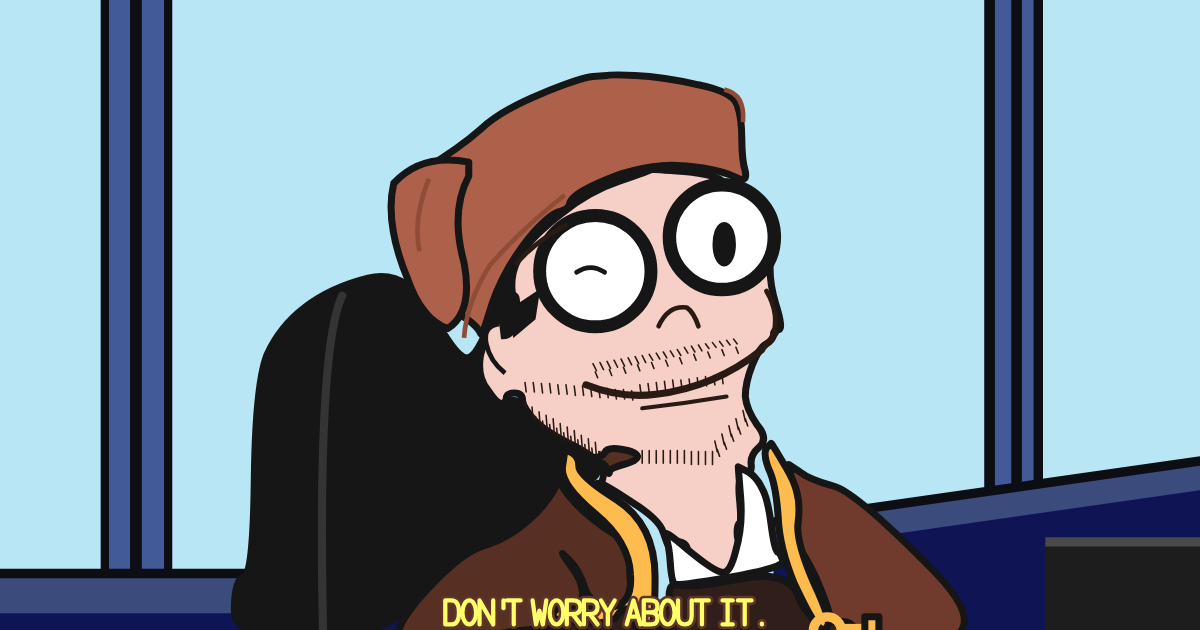
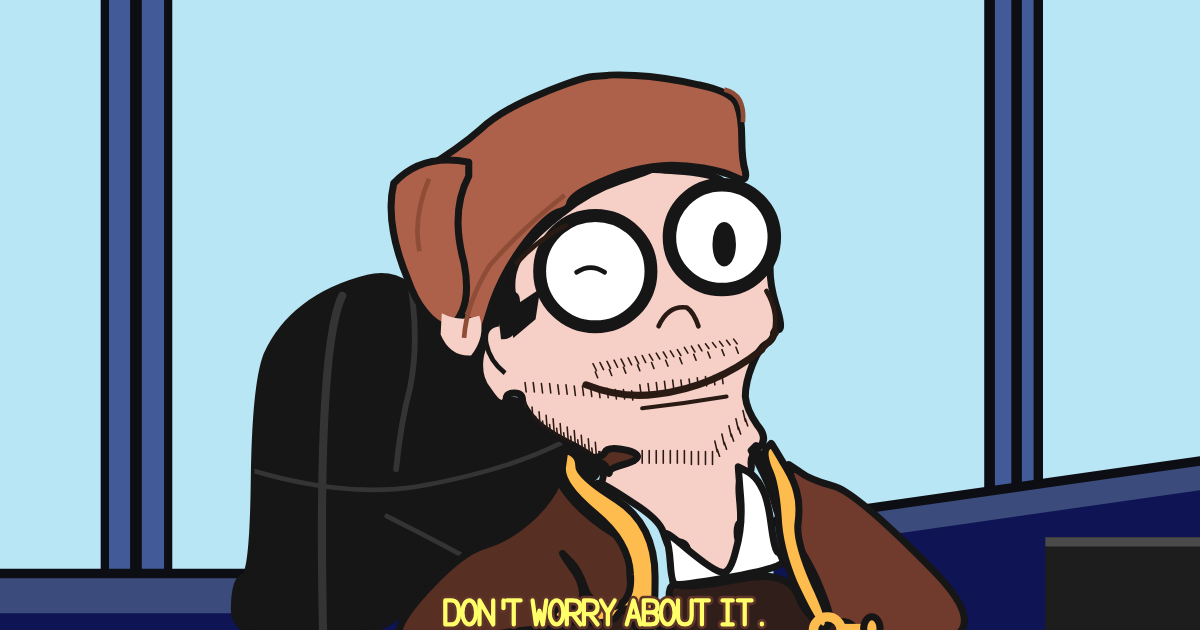
tipsy: fidelity pass on tipsy/ghost — chair upholstery, torso ledge fix, leak patches

diff --git a/tipsy/tipsy/index.html b/tipsy/tipsy/index.html
@@ -4,18 +4,18 @@
 <meta charset="utf-8">
 <meta name="viewport" content="width=device-width,initial-scale=1">
 <title>Tipsy Turtles_Bonus Snippet_1 — on chain</title>
-<meta name="description" content="Tipsy Turtles_Bonus Snippet_1 redrawn as vector art and stored entirely inside its minting transaction — 13,489 bytes, no IPFS, no gateway.">
+<meta name="description" content="Tipsy Turtles_Bonus Snippet_1 redrawn as vector art and stored entirely inside its minting transaction — 14,172 bytes, no IPFS, no gateway.">
 <link rel="canonical" href="https://beacnpool.github.io/ABCDE/tipsy/tipsy/">
 <meta property="og:type" content="website">
 <meta property="og:url" content="https://beacnpool.github.io/ABCDE/tipsy/tipsy/">
 <meta property="og:title" content="Tipsy Turtles_Bonus Snippet_1 — on chain">
-<meta property="og:description" content="Tipsy Turtles_Bonus Snippet_1 redrawn as vector art and stored entirely inside its minting transaction — 13,489 bytes, no IPFS, no gateway.">
+<meta property="og:description" content="Tipsy Turtles_Bonus Snippet_1 redrawn as vector art and stored entirely inside its minting transaction — 14,172 bytes, no IPFS, no gateway.">
 <meta property="og:image" content="https://beacnpool.github.io/ABCDE/tipsy/tipsy/og.png">
 <meta property="og:image:width" content="1200">
 <meta property="og:image:height" content="630">
 <meta name="twitter:card" content="summary_large_image">
 <meta name="twitter:title" content="Tipsy Turtles_Bonus Snippet_1 — on chain">
-<meta name="twitter:description" content="Tipsy Turtles_Bonus Snippet_1 redrawn as vector art and stored entirely inside its minting transaction — 13,489 bytes, no IPFS, no gateway.">
+<meta name="twitter:description" content="Tipsy Turtles_Bonus Snippet_1 redrawn as vector art and stored entirely inside its minting transaction — 14,172 bytes, no IPFS, no gateway.">
 <meta name="twitter:image" content="https://beacnpool.github.io/ABCDE/tipsy/tipsy/og.png">
 <style>
 *{box-sizing:border-box}
@@ -100,7 +100,7 @@ footer{margin-top:44px;padding-top:16px;border-top:1px solid var(--line);
      <code>ipfs://QmaHHqybfwzf…</code> — and a pointer is only as permanent as
      whoever keeps paying to pin it.</p>
   <p class="sub">On the right is the same frame redrawn as vector art and written
-     <b>into the minting transaction itself</b>: 9,215 bytes of SVG, no gateway,
+     <b>into the minting transaction itself</b>: 9,725 bytes of SVG, no gateway,
      no pin, no bill.</p>
 
   <div class="vs">
@@ -123,9 +123,9 @@ footer{margin-top:44px;padding-top:16px;border-top:1px solid var(--line);
         <span class="tag chain">stored on Cardano</span><br>
         <b>Ours.</b> Decoded from the same base64 string that rides in the transaction
         below. Nothing was fetched to draw it.
-        <div class="bar"><i style="width:82.3%"></i></div>
-        <span style="color:var(--dim)">13,489 of 16,384 bytes
-        &middot; 82% of one transaction</span>
+        <div class="bar"><i style="width:86.5%"></i></div>
+        <span style="color:var(--dim)">14,172 of 16,384 bytes
+        &middot; 86% of one transaction</span>
       </div>
     </div>
   </div>
@@ -157,8 +157,8 @@ footer{margin-top:44px;padding-top:16px;border-top:1px solid var(--line);
     <tr><td>closes</td><td>24 Aug 2026 13:04 UTC</td></tr>
     <tr><td>asset name</td><td><code>TIPSY&lt;8 hex&gt;</code> — derived from the
         UTxO you spend, so every mint is a distinct token</td></tr>
-    <tr><td>image</td><td><code>9,215 bytes</code> of SVG, base64 in CIP-25 metadata</td></tr>
-    <tr><td>you pay</td><td><b>~0.75 ADA</b> network fee, plus
+    <tr><td>image</td><td><code>9,725 bytes</code> of SVG, base64 in CIP-25 metadata</td></tr>
+    <tr><td>you pay</td><td><b>~0.78 ADA</b> network fee, plus
         <b>~1.18 ADA</b> min-UTxO that stays in your wallet</td></tr>
     <tr><td>creator takes</td><td><b>nothing</b> — there is no payment address in this
         transaction</td></tr>
@@ -190,7 +190,7 @@ footer{margin-top:44px;padding-top:16px;border-top:1px solid var(--line);
     transaction · <a href="../">all three frames</a></footer>
 
 </div>
-<script id="art-src" type="image/svg+xml"><svg xmlns="http://www.w3.org/2000/svg" viewBox="0 0 1024 576"><defs><path id="fp" d="M556 164Q557 164 584 166Q612 169 616 174Q619 178 631 182Q643 186 652 200Q660 213 658 235Q655 257 662 279Q669 301 664 301Q660 301 660 306Q659 310 654 313Q648 316 642 331Q636 346 636 358Q637 369 646 382Q656 394 648 401Q640 408 641 416Q642 423 636 424Q629 424 631 445Q633 466 631 466Q629 467 629 474Q629 481 632 484Q634 487 632 498Q631 510 637 510Q643 511 623 514Q603 518 602 512Q602 507 597 504Q592 501 584 501Q577 501 576 511Q574 521 574 512Q574 503 580 502Q587 500 587 492Q587 483 579 482Q571 482 570 484Q570 486 566 474Q563 463 539 448Q515 432 512 432Q508 432 512 432Q515 431 515 422Q515 413 490 400Q464 387 456 378Q447 368 446 362Q446 355 439 355Q432 355 432 360Q431 364 428 364Q424 364 416 352Q407 341 410 323Q414 305 426 306Q439 308 440 290Q442 272 439 272Q436 271 437 258Q438 246 447 233Q456 220 479 202Q502 183 529 174Q556 165 556 164Z"/><clipPath id="fc"><use href="#fp"/></clipPath><path id="A" d="M0 28 8 0 16 28M3 19h10"/><path id="B" d="M0 28V0h8q8 0 8 7t-8 7H0m8 0q8 0 8 7t-8 7H0"/><path id="D" d="M0 0h7q9 0 9 14t-9 14H0z"/><path id="I" d="M2 0h12M8 0v28M2 28h12"/><path id="N" d="M0 28V0l16 28V0"/><path id="O" d="M8 0a8 14 0 0 0 0 28a8 14 0 0 0 0-28z"/><path id="R" d="M0 28V0h7q9 0 9 8t-9 8H0m7 0 9 12"/><path id="T" d="M0 0h16M8 0v28"/><path id="U" d="M0 0v18q0 10 8 10t8-10V0"/><path id="W" d="M0 0 4 28 8 12 12 28 16 0"/><path id="Y" d="M0 0 8 14 16 0M8 14v14"/><path id="k" d="M8 0v9"/><path id="p" d="M8 27v1"/><g id="cp" transform="translate(380 532)scale(0.73)"><use href="#D" x="0"/><use href="#O" x="20"/><use href="#N" x="40"/><use href="#k" x="60"/><use href="#T" x="72"/><use href="#W" x="102"/><use href="#O" x="122"/><use href="#R" x="142"/><use href="#R" x="162"/><use href="#Y" x="182"/><use href="#A" x="212"/><use href="#B" x="232"/><use href="#O" x="252"/><use href="#U" x="272"/><use href="#T" x="292"/><use href="#I" x="322"/><use href="#T" x="342"/><use href="#p" x="362"/></g></defs><path d="M0 0h1024v576H0z" fill="#b8e6f4"/><path d="M86 0h60v520H86z" fill="#425a98"/><path d="M86 0h7v520h-7zm25 0h10v520h-10zm29 0h7v520h-7z" fill="#0c0e14"/><path d="M840 0h50v448h-50z" fill="#425a98"/><path d="M840 0h9v448h-9zm23 0h9v448h-9zm19 0h8v448h-8z" fill="#0c0e14"/><path d="M0 508h446v68H0z" fill="#3b4b7c"/><path d="M0 543h446v33H0z" fill="#0e1454"/><path d="M0 505h446v8H0z" fill="#0c0e14"/><path d="M660 466 1024 414v162H660z" fill="#0e1454"/><path d="M660 466 1024 414v24L660 490z" fill="#3b4b7c"/><path d="M660 461 1024 409v8L660 469z" fill="#0c0e14"/><path d="M892 478h132v98H892z" fill="#1d1d1d"/><path d="M892 478h132v8H892z" fill="#4a4a4a"/><g stroke="#161616" stroke-width="6" stroke-linejoin="round"><path d="M454 244Q455 244 463 261Q471 278 491 290Q511 302 478 291Q446 280 445 300Q444 319 430 316Q416 313 415 334Q414 356 417 360Q420 365 432 362Q444 358 454 374Q463 389 487 401Q511 413 510 420Q510 427 500 430Q489 432 489 440Q489 448 479 446Q469 444 459 453Q449 462 449 470Q449 478 465 485Q481 492 489 502Q497 513 504 533Q511 553 506 560Q500 567 496 561Q491 555 436 554Q381 554 382 547Q384 540 441 539Q498 538 492 518Q487 499 465 488Q443 478 418 484Q393 489 359 528Q325 567 262 567Q200 567 200 540Q200 514 208 512Q216 511 217 429Q218 347 228 322Q239 298 260 282Q282 265 314 257Q346 249 368 286Q389 324 398 325Q407 326 420 289Q432 252 434 249Q436 246 436 253Q437 260 445 260Q453 260 454 252Q454 245 454 244Z" fill="#161616"/><path d="M292 272q-22 46-16 304" fill="none" stroke="#343434" stroke-width="7" stroke-linecap="round"/><use href="#fp" fill="#f6cfc6"/><path d="M518 84Q519 83 542 84Q566 85 596 92Q625 98 629 109Q633 120 633 138Q633 156 636 166Q638 176 628 171Q618 166 600 163Q581 160 565 161Q549 162 530 168Q511 175 498 182Q486 189 486 194Q485 198 478 200Q471 201 458 215Q445 229 434 248Q423 267 417 288Q411 308 410 304Q408 299 400 293Q392 287 384 288Q376 289 376 294Q375 299 364 284Q352 268 350 250Q347 231 341 219Q335 207 334 194Q333 181 362 164Q392 146 410 130Q427 114 461 100Q495 86 506 85Q518 84 518 84Z" fill="#ad614a"/><path d="M400 158Q360 150 336 176Q328 210 348 258Q360 292 382 300Q404 286 396 244Q384 200 400 170Z" fill="#ad614a"/><path d="M482 186q-38 30-64 60-20 32-22 62" fill="none" stroke="#8f4d38" stroke-width="4"/><path d="M366 172q-14 34-8 62" fill="none" stroke="#8f4d38" stroke-width="4"/><path d="M618 96q18 4 16 28" fill="none" stroke="#8f4d38" stroke-width="4"/><circle cx="508" cy="251" r="45" fill="#fff"/><circle cx="616" cy="222" r="42" fill="#fff"/><ellipse cx="618" cy="228" rx="7" ry="16" fill="#161616"/><path d="M492 252q12-8 24 0" fill="none" stroke="#161616" stroke-width="4" stroke-linecap="round"/><path d="M461 266 434 284l4 24 19-16z" fill="#161616" stroke="none"/><path d="M426 296q-14 2-11 17t16 25" fill="#f6cfc6" stroke-width="4"/><g fill="none" stroke="#161616"><circle cx="508" cy="251" r="49" stroke-width="8"/><circle cx="616" cy="222" r="46" stroke-width="9"/></g><g fill="none" stroke="#2a1a14" stroke-linecap="round"><path d="M562 298q8-18 24-16 6 4 10 16" stroke-width="4"/><path d="M500 348q30 12 60 8 50-6 90-38" stroke-width="6"/><path d="M648 320q8-8 14-16" stroke-width="5"/><path d="M548 368q36-4 72-10" stroke-width="3.5"/><path d="M654 268q12 20 5 40" stroke-width="4"/><path d="M441 244q18-20 42-32" stroke-width="4"/></g><g clip-path="url(#fc)" fill="none" stroke="#2a1a14" stroke-width="1.35" stroke-linecap="round"><path d="M506 330l3 6M508 337l2 5M512 329l3 6M518 328l3 6M520 335l2 5M524 327l3 6M530 326l3 6M532 333l2 5M536 325l3 6M542 324l3 6M544 331l2 5M548 323l3 6M554 322l3 5M556 329l2 5M560 321l3 5M566 320l3 5M568 327l2 5M572 319l3 5M578 318l3 5M580 325l2 5M584 316l3 5M590 315l3 5M592 322l2 5M596 314l3 5M602 313l3 4M604 320l2 5M608 312l3 4M614 311l3 4M616 318l2 5M620 310l3 4M626 309l3 4M628 316l2 5M436 358l1 13M439 366l1 9M442 361l1 13M445 369l1 9M448 364l1 13M451 372l1 9M454 367l1 13M457 375l1 9M460 371l1 13M463 379l1 9M466 374l1 13M469 382l1 9M472 377l1 13M475 385l1 9M478 381l1 13M481 389l1 9M484 384l1 13M487 392l1 9M490 387l1 13M493 395l1 9M496 391l1 13M499 399l1 9M502 394l1 13M505 402l1 9M508 397l1 13M511 405l1 9M448 346l1 8M455 346l1 8M462 347l1 8M469 347l1 8M476 348l1 8M483 348l1 8M490 349l1 8M497 349l1 8M504 350l1 8M511 351l1 8M518 351l1 8M525 352l1 8M532 352l1 8M539 353l1 8M546 348l1 8M553 347l1 8M560 346l1 8M567 345l1 8M574 344l1 8M581 344l1 8M588 343l1 8M595 342l1 8M602 341l1 8M609 340l1 8M616 339l1 8M512 405l0 11M518 405l0 11M524 405l0 11M530 405l0 11M536 404l0 11M542 404l0 11M548 404l0 11M554 404l0 11M560 404l0 11M566 404l0 11M572 404l0 11M578 404l0 11M584 404l0 11M590 405l0 11M596 405l0 11M602 405l0 11M608 405l0 11M610 396l2 9M612 403l2 6M616 390l2 9M618 397l2 6M622 383l2 9M624 390l2 6M628 377l2 9M630 384l2 6M634 370l2 9M636 377l2 6M640 363l2 9M642 370l2 6M646 357l2 9M648 364l2 6M652 350l2 9M654 357l2 6"/></g><path d="M673 416Q673 416 682 422Q691 429 710 434Q729 438 794 504Q859 569 778 570Q697 570 694 560Q691 551 699 551Q707 551 708 546Q708 540 696 512Q683 485 678 484Q673 484 678 474Q684 464 678 440Q673 417 673 416Z" fill="#703a2d"/><path d="M490 400Q490 400 494 405Q499 410 506 410Q514 410 516 406Q518 401 530 403Q543 405 544 409Q544 413 532 416Q521 419 520 422Q520 426 518 420Q516 414 505 412Q494 410 492 416Q491 422 484 421Q476 420 476 426Q476 432 490 448Q504 463 525 476Q546 490 541 490Q536 491 538 517Q539 543 542 544Q546 544 546 549Q547 554 554 554Q560 554 551 554Q542 554 542 562Q541 570 540 564Q538 559 526 558Q513 556 478 556Q442 556 412 563Q383 570 354 570Q324 570 358 530Q392 491 414 485Q435 479 456 459Q476 439 477 424Q478 409 484 405Q490 401 490 400Z" fill="#572f23"/><path d="M480 492Q480 492 487 499Q494 506 499 521Q504 536 519 536Q534 536 534 540Q535 545 553 543Q571 541 571 528Q571 516 580 519Q588 522 630 514Q672 505 681 528Q690 552 710 550Q729 548 729 558Q729 569 724 566Q718 562 708 562Q699 562 698 566Q698 569 638 569Q577 569 576 562Q574 554 558 554Q542 554 542 562Q541 569 510 569Q480 569 480 554Q480 539 489 538Q498 536 497 525Q496 514 488 504Q480 493 480 492Z" fill="#301e1b"/><path d="M630 418Q630 418 638 422Q646 427 650 436Q655 444 658 467Q661 490 664 491Q666 492 668 498Q670 504 624 512Q578 520 576 518Q573 516 572 500Q571 485 568 477Q564 469 586 488Q609 507 616 508Q623 510 628 489Q634 468 632 444Q630 419 630 418Z" fill="#ffffff"/><path d="M482 404Q482 403 488 406Q494 409 494 418Q494 426 526 446Q559 467 559 512Q559 556 554 557Q548 558 544 555Q539 552 540 546Q540 539 535 539Q530 539 526 546Q522 552 496 551Q470 550 472 544Q473 539 479 538Q485 537 486 540Q486 543 490 543Q495 543 496 540Q498 538 519 538Q540 537 538 510Q537 482 508 458Q478 433 480 418Q482 404 482 404Z" fill="#febb4e"/><path d="M658 398Q658 397 668 414Q678 430 680 440Q683 450 681 466Q679 481 694 516Q710 550 706 554Q703 559 698 554Q692 548 678 518Q665 487 664 460Q662 432 656 420Q651 407 654 402Q658 398 658 398Z" fill="#febb4e"/><g fill="none" stroke="#febb4e" stroke-width="8"><circle cx="706" cy="558" r="12"/><path d="M718 556h22"/></g><path d="M738 546h12v20h-12z" fill="#febb4e"/></g><g fill="none" stroke-linecap="round" stroke-linejoin="round"><use href="#cp" stroke="#603428" stroke-width="11"/><use href="#cp" stroke="#ffff69" stroke-width="5"/></g></svg></script>
+<script id="art-src" type="image/svg+xml"><svg xmlns="http://www.w3.org/2000/svg" viewBox="0 0 1024 576"><defs><path id="cs" d="M454 244Q455 244 463 261Q471 278 491 290Q511 302 478 291Q446 280 445 300Q444 319 430 316Q416 313 415 334Q414 356 417 360Q420 365 432 362Q444 358 454 374Q463 389 487 401Q511 413 510 420Q510 427 500 430Q489 432 489 440Q489 448 479 446Q469 444 459 453Q449 462 449 470Q449 478 465 485Q481 492 489 502Q497 513 504 533Q511 553 506 560Q500 567 496 561Q491 555 436 554Q381 554 382 547Q384 540 441 539Q498 538 492 518Q487 499 465 488Q443 478 418 484Q393 489 359 528Q325 567 262 567Q200 567 200 540Q200 514 208 512Q216 511 217 429Q218 347 228 322Q239 298 260 282Q282 265 314 257Q346 249 368 286Q389 324 398 325Q407 326 420 289Q432 252 434 249Q436 246 436 253Q437 260 445 260Q453 260 454 252Q454 245 454 244Z"/><clipPath id="ccl"><use href="#cs"/></clipPath><path id="fp" d="M556 164Q557 164 584 166Q612 169 616 174Q619 178 631 182Q643 186 652 200Q660 213 658 235Q655 257 662 279Q669 301 664 301Q660 301 660 306Q659 310 654 313Q648 316 642 331Q636 346 636 358Q637 369 646 382Q656 394 648 401Q640 408 641 416Q642 423 636 424Q629 424 631 445Q633 466 631 466Q629 467 629 474Q629 481 632 484Q634 487 632 498Q631 510 637 510Q643 511 623 514Q603 518 602 512Q602 507 597 504Q592 501 584 501Q577 501 576 511Q574 521 574 512Q574 503 580 502Q587 500 587 492Q587 483 579 482Q571 482 570 484Q570 486 566 474Q563 463 539 448Q515 432 512 432Q508 432 512 432Q515 431 515 422Q515 413 490 400Q464 387 456 378Q447 368 446 362Q446 355 439 355Q432 355 432 360Q431 364 428 364Q424 364 416 352Q407 341 410 323Q414 305 426 306Q439 308 440 290Q442 272 439 272Q436 271 437 258Q438 246 447 233Q456 220 479 202Q502 183 529 174Q556 165 556 164Z"/><clipPath id="fc"><use href="#fp"/></clipPath><path id="A" d="M0 28 8 0 16 28M3 19h10"/><path id="B" d="M0 28V0h8q8 0 8 7t-8 7H0m8 0q8 0 8 7t-8 7H0"/><path id="D" d="M0 0h7q9 0 9 14t-9 14H0z"/><path id="I" d="M2 0h12M8 0v28M2 28h12"/><path id="N" d="M0 28V0l16 28V0"/><path id="O" d="M8 0a8 14 0 0 0 0 28a8 14 0 0 0 0-28z"/><path id="R" d="M0 28V0h7q9 0 9 8t-9 8H0m7 0 9 12"/><path id="T" d="M0 0h16M8 0v28"/><path id="U" d="M0 0v18q0 10 8 10t8-10V0"/><path id="W" d="M0 0 4 28 8 12 12 28 16 0"/><path id="Y" d="M0 0 8 14 16 0M8 14v14"/><path id="k" d="M8 0v9"/><path id="p" d="M8 27v1"/><g id="cp" transform="translate(380 532)scale(0.73)"><use href="#D" x="0"/><use href="#O" x="20"/><use href="#N" x="40"/><use href="#k" x="60"/><use href="#T" x="72"/><use href="#W" x="102"/><use href="#O" x="122"/><use href="#R" x="142"/><use href="#R" x="162"/><use href="#Y" x="182"/><use href="#A" x="212"/><use href="#B" x="232"/><use href="#O" x="252"/><use href="#U" x="272"/><use href="#T" x="292"/><use href="#I" x="322"/><use href="#T" x="342"/><use href="#p" x="362"/></g></defs><path d="M0 0h1024v576H0z" fill="#b8e6f4"/><path d="M86 0h60v520H86z" fill="#425a98"/><path d="M86 0h7v520h-7zm25 0h10v520h-10zm29 0h7v520h-7z" fill="#0c0e14"/><path d="M840 0h50v448h-50z" fill="#425a98"/><path d="M840 0h9v448h-9zm23 0h9v448h-9zm19 0h8v448h-8z" fill="#0c0e14"/><path d="M0 508h446v68H0z" fill="#3b4b7c"/><path d="M0 543h446v33H0z" fill="#0e1454"/><path d="M0 505h446v8H0z" fill="#0c0e14"/><path d="M660 466 1024 414v162H660z" fill="#0e1454"/><path d="M660 466 1024 414v24L660 490z" fill="#3b4b7c"/><path d="M660 461 1024 409v8L660 469z" fill="#0c0e14"/><path d="M892 478h132v98H892z" fill="#1d1d1d"/><path d="M892 478h132v8H892z" fill="#4a4a4a"/><g stroke="#161616" stroke-width="6" stroke-linejoin="round"><use href="#cs" fill="#161616"/><g clip-path="url(#ccl)" fill="none" stroke="#343434" stroke-linecap="round"><path d="M292 272q-22 46-16 304" stroke-width="7"/><path d="M345 235Q360 300 350 350Q342 380 338 420" stroke-width="5"/><path d="M205 418Q290 445 355 435Q430 422 478 398" stroke-width="4"/><path d="M330 460Q400 495 478 540" stroke-width="4"/></g><use href="#fp" fill="#f6cfc6"/><path d="M518 84Q519 83 542 84Q566 85 596 92Q625 98 629 109Q633 120 633 138Q633 156 636 166Q638 176 628 171Q618 166 600 163Q581 160 565 161Q549 162 530 168Q511 175 498 182Q486 189 486 194Q485 198 478 200Q471 201 458 215Q445 229 434 248Q423 267 417 288Q411 308 410 304Q408 299 400 293Q392 287 384 288Q376 289 376 294Q375 299 364 284Q352 268 350 250Q347 231 341 219Q335 207 334 194Q333 181 362 164Q392 146 410 130Q427 114 461 100Q495 86 506 85Q518 84 518 84Z" fill="#ad614a"/><path d="M400 158Q360 150 336 176Q328 210 348 258Q360 292 382 300Q404 286 396 244Q384 200 400 170Z" fill="#ad614a"/><path d="M377 287Q392 295 409 289Q415 306 402 323Q384 324 376 305Z" fill="#f6cfc6" stroke="none"/><path d="M482 186q-38 30-64 60-20 32-22 62" fill="none" stroke="#8f4d38" stroke-width="4"/><path d="M366 172q-14 34-8 62" fill="none" stroke="#8f4d38" stroke-width="4"/><path d="M618 96q18 4 16 28" fill="none" stroke="#8f4d38" stroke-width="4"/><circle cx="508" cy="251" r="45" fill="#fff"/><circle cx="616" cy="222" r="42" fill="#fff"/><ellipse cx="618" cy="228" rx="7" ry="16" fill="#161616"/><path d="M492 252q12-8 24 0" fill="none" stroke="#161616" stroke-width="4" stroke-linecap="round"/><path d="M461 266 434 284l4 24 19-16z" fill="#161616" stroke="none"/><path d="M426 296q-14 2-11 17t16 25" fill="#f6cfc6" stroke-width="4"/><g fill="none" stroke="#161616"><circle cx="508" cy="251" r="49" stroke-width="8"/><circle cx="616" cy="222" r="46" stroke-width="9"/></g><g fill="none" stroke="#2a1a14" stroke-linecap="round"><path d="M562 298q8-18 24-16 6 4 10 16" stroke-width="4"/><path d="M500 348q30 12 60 8 50-6 90-38" stroke-width="6"/><path d="M648 320q8-8 14-16" stroke-width="5"/><path d="M548 368q36-4 72-10" stroke-width="3.5"/><path d="M654 268q12 20 5 40" stroke-width="4"/><path d="M441 244q18-20 42-32" stroke-width="4"/></g><g clip-path="url(#fc)" fill="none" stroke="#2a1a14" stroke-width="1.35" stroke-linecap="round"><path d="M506 330l3 6M508 337l2 5M512 329l3 6M518 328l3 6M520 335l2 5M524 327l3 6M530 326l3 6M532 333l2 5M536 325l3 6M542 324l3 6M544 331l2 5M548 323l3 6M554 322l3 5M556 329l2 5M560 321l3 5M566 320l3 5M568 327l2 5M572 319l3 5M578 318l3 5M580 325l2 5M584 316l3 5M590 315l3 5M592 322l2 5M596 314l3 5M602 313l3 4M604 320l2 5M608 312l3 4M614 311l3 4M616 318l2 5M620 310l3 4M626 309l3 4M628 316l2 5M436 358l1 13M439 366l1 9M442 361l1 13M445 369l1 9M448 364l1 13M451 372l1 9M454 367l1 13M457 375l1 9M460 371l1 13M463 379l1 9M466 374l1 13M469 382l1 9M472 377l1 13M475 385l1 9M478 381l1 13M481 389l1 9M484 384l1 13M487 392l1 9M490 387l1 13M493 395l1 9M496 391l1 13M499 399l1 9M502 394l1 13M505 402l1 9M508 397l1 13M511 405l1 9M448 346l1 8M455 346l1 8M462 347l1 8M469 347l1 8M476 348l1 8M483 348l1 8M490 349l1 8M497 349l1 8M504 350l1 8M511 351l1 8M518 351l1 8M525 352l1 8M532 352l1 8M539 353l1 8M546 348l1 8M553 347l1 8M560 346l1 8M567 345l1 8M574 344l1 8M581 344l1 8M588 343l1 8M595 342l1 8M602 341l1 8M609 340l1 8M616 339l1 8M512 405l0 11M518 405l0 11M524 405l0 11M530 405l0 11M536 404l0 11M542 404l0 11M548 404l0 11M554 404l0 11M560 404l0 11M566 404l0 11M572 404l0 11M578 404l0 11M584 404l0 11M590 405l0 11M596 405l0 11M602 405l0 11M608 405l0 11M610 396l2 9M612 403l2 6M616 390l2 9M618 397l2 6M622 383l2 9M624 390l2 6M628 377l2 9M630 384l2 6M634 370l2 9M636 377l2 6M640 363l2 9M642 370l2 6M646 357l2 9M648 364l2 6M652 350l2 9M654 357l2 6"/></g><path d="M673 416Q673 416 682 422Q691 429 710 434Q729 438 794 504Q859 569 778 570Q697 570 694 560Q691 551 699 551Q707 551 708 546Q708 540 696 512Q683 485 678 484Q673 484 678 474Q684 464 678 440Q673 417 673 416Z" fill="#703a2d"/><path d="M641 404Q650 420 655 432Q660 444 663 456L667 452Q662 438 657 426Q650 412 645 400Z" fill="#703a2d"/><path d="M490 400Q490 400 494 405Q499 410 506 410Q514 410 516 406Q518 401 530 403Q543 405 544 409Q544 413 532 416Q521 419 520 422Q520 426 518 420Q516 414 505 412Q494 410 492 416Q491 422 484 421Q476 420 476 426Q476 432 490 448Q504 463 525 476Q546 490 541 490Q536 491 538 517Q539 543 542 544Q546 544 546 549Q547 554 554 554Q560 554 551 554Q542 554 542 562Q541 570 540 564Q538 559 526 558Q513 556 478 556Q442 556 412 563Q383 570 354 570Q324 570 358 530Q392 491 414 485Q435 479 456 459Q476 439 477 424Q478 409 484 405Q490 401 490 400Z" fill="#572f23"/><path d="M480 492Q480 492 487 499Q494 506 499 521Q504 536 519 536Q534 536 534 540Q535 545 553 543Q571 541 571 528Q571 516 580 519Q588 522 630 514Q672 505 681 528Q690 552 710 550Q729 548 729 558Q729 569 724 566Q718 562 708 562Q699 562 698 566Q698 569 638 569Q577 569 576 562Q574 554 558 554Q542 554 542 562Q541 569 510 569Q480 569 480 554Q480 539 489 538Q498 536 497 525Q496 514 488 504Q480 493 480 492Z" fill="#301e1b"/><path d="M630 418Q630 418 638 422Q646 427 650 436Q655 444 658 467Q661 490 664 491Q666 492 668 498Q670 504 624 512Q578 520 576 518Q573 516 572 500Q571 485 568 477Q564 469 586 488Q609 507 616 508Q623 510 628 489Q634 468 632 444Q630 419 630 418Z" fill="#ffffff"/><path d="M482 404Q482 403 488 406Q494 409 494 418Q494 426 526 446Q559 467 559 512Q559 556 554 557Q548 558 544 555Q539 552 540 546Q540 539 535 539Q530 539 526 546Q522 552 496 551Q470 550 472 544Q473 539 479 538Q485 537 486 540Q486 543 490 543Q495 543 496 540Q498 538 519 538Q540 537 538 510Q537 482 508 458Q478 433 480 418Q482 404 482 404Z" fill="#febb4e"/><path d="M658 398Q658 397 668 414Q678 430 680 440Q683 450 681 466Q679 481 694 516Q710 550 706 554Q703 559 698 554Q692 548 678 518Q665 487 664 460Q662 432 656 420Q651 407 654 402Q658 398 658 398Z" fill="#febb4e"/><g fill="none" stroke="#febb4e" stroke-width="8"><circle cx="706" cy="558" r="12"/><path d="M718 556h20"/></g><ellipse cx="744" cy="556" rx="7" ry="10" fill="#febb4e"/></g><g fill="none" stroke-linecap="round" stroke-linejoin="round"><use href="#cp" stroke="#603428" stroke-width="11"/><use href="#cp" stroke="#ffff69" stroke-width="5"/></g></svg></script>
 <script type="module">
 const ANCHOR_SLOT = 193727336, ANCHOR_UNIX = 1785293627;
 const DEADLINE_SLOT = 196010381, TICKER = 'TIPSY';

diff --git a/tipsy/ghost/index.html b/tipsy/ghost/index.html
@@ -4,18 +4,18 @@
 <meta charset="utf-8">
 <meta name="viewport" content="width=device-width,initial-scale=1">
 <title>Tipsy Turtles_Chapter 2 Snippet — on chain</title>
-<meta name="description" content="Tipsy Turtles_Chapter 2 Snippet redrawn as vector art and stored entirely inside its minting transaction — 11,983 bytes, no IPFS, no gateway.">
+<meta name="description" content="Tipsy Turtles_Chapter 2 Snippet redrawn as vector art and stored entirely inside its minting transaction — 11,967 bytes, no IPFS, no gateway.">
 <link rel="canonical" href="https://beacnpool.github.io/ABCDE/tipsy/ghost/">
 <meta property="og:type" content="website">
 <meta property="og:url" content="https://beacnpool.github.io/ABCDE/tipsy/ghost/">
 <meta property="og:title" content="Tipsy Turtles_Chapter 2 Snippet — on chain">
-<meta property="og:description" content="Tipsy Turtles_Chapter 2 Snippet redrawn as vector art and stored entirely inside its minting transaction — 11,983 bytes, no IPFS, no gateway.">
+<meta property="og:description" content="Tipsy Turtles_Chapter 2 Snippet redrawn as vector art and stored entirely inside its minting transaction — 11,967 bytes, no IPFS, no gateway.">
 <meta property="og:image" content="https://beacnpool.github.io/ABCDE/tipsy/ghost/og.png">
 <meta property="og:image:width" content="1200">
 <meta property="og:image:height" content="630">
 <meta name="twitter:card" content="summary_large_image">
 <meta name="twitter:title" content="Tipsy Turtles_Chapter 2 Snippet — on chain">
-<meta name="twitter:description" content="Tipsy Turtles_Chapter 2 Snippet redrawn as vector art and stored entirely inside its minting transaction — 11,983 bytes, no IPFS, no gateway.">
+<meta name="twitter:description" content="Tipsy Turtles_Chapter 2 Snippet redrawn as vector art and stored entirely inside its minting transaction — 11,967 bytes, no IPFS, no gateway.">
 <meta name="twitter:image" content="https://beacnpool.github.io/ABCDE/tipsy/ghost/og.png">
 <style>
 *{box-sizing:border-box}
@@ -100,7 +100,7 @@ footer{margin-top:44px;padding-top:16px;border-top:1px solid var(--line);
      <code>ipfs://QmZM9p5Kgqtj…</code> — and a pointer is only as permanent as
      whoever keeps paying to pin it.</p>
   <p class="sub">On the right is the same frame redrawn as vector art and written
-     <b>into the minting transaction itself</b>: 8,117 bytes of SVG, no gateway,
+     <b>into the minting transaction itself</b>: 8,125 bytes of SVG, no gateway,
      no pin, no bill.</p>
 
   <div class="vs">
@@ -123,8 +123,8 @@ footer{margin-top:44px;padding-top:16px;border-top:1px solid var(--line);
         <span class="tag chain">stored on Cardano</span><br>
         <b>Ours.</b> Decoded from the same base64 string that rides in the transaction
         below. Nothing was fetched to draw it.
-        <div class="bar"><i style="width:73.1%"></i></div>
-        <span style="color:var(--dim)">11,983 of 16,384 bytes
+        <div class="bar"><i style="width:73.0%"></i></div>
+        <span style="color:var(--dim)">11,967 of 16,384 bytes
         &middot; 73% of one transaction</span>
       </div>
     </div>
@@ -157,7 +157,7 @@ footer{margin-top:44px;padding-top:16px;border-top:1px solid var(--line);
     <tr><td>closes</td><td>24 Aug 2026 13:04 UTC</td></tr>
     <tr><td>asset name</td><td><code>GHOST&lt;8 hex&gt;</code> — derived from the
         UTxO you spend, so every mint is a distinct token</td></tr>
-    <tr><td>image</td><td><code>8,117 bytes</code> of SVG, base64 in CIP-25 metadata</td></tr>
+    <tr><td>image</td><td><code>8,125 bytes</code> of SVG, base64 in CIP-25 metadata</td></tr>
     <tr><td>you pay</td><td><b>~0.68 ADA</b> network fee, plus
         <b>~1.18 ADA</b> min-UTxO that stays in your wallet</td></tr>
     <tr><td>creator takes</td><td><b>nothing</b> — there is no payment address in this
@@ -190,7 +190,7 @@ footer{margin-top:44px;padding-top:16px;border-top:1px solid var(--line);
     transaction · <a href="../">all three frames</a></footer>
 
 </div>
-<script id="art-src" type="image/svg+xml"><svg xmlns="http://www.w3.org/2000/svg" viewBox="0 0 1024 576"><defs><clipPath id="cc"><path d="M0 0h1024v262L0 62z"/></clipPath><path id="fp" d="M506 174Q507 173 526 174Q544 174 568 180Q592 187 606 194Q620 201 638 216Q655 231 660 246Q664 262 662 272Q660 281 660 288L660 295L662 296L664 296L664 346L663 396L644 400L625 405L625 414L625 422L621 410Q617 397 616 381L615 365L608 365Q600 365 575 374Q550 384 540 382Q531 381 475 386L419 392L409 380Q399 367 392 352Q384 336 378 334Q373 333 368 328Q364 324 360 312Q356 301 356 284Q355 267 360 259Q366 251 368 250L369 248L376 257L383 266L390 266Q397 266 402 262Q408 257 408 250L408 243L404 242L400 242L403 228Q406 213 430 199Q455 185 480 180Q506 174 506 174Z"/><path id="mp" d="M514 312Q542 304 566 316Q574 344 564 376Q540 388 522 380Q506 362 510 334Q510 318 514 312Z"/><clipPath id="mc"><use href="#mp"/></clipPath><clipPath id="ll"><ellipse cx="491" cy="250" rx="42" ry="50"/></clipPath><clipPath id="rl"><ellipse cx="606" cy="262" rx="38" ry="47"/></clipPath></defs><path d="M0 0h1024v576H0z" fill="#1a3ab9"/><path d="M0 0h1024v262L0 62z" fill="#728fc6"/><g fill="none" stroke="#b4c4de" stroke-width="2" clip-path="url(#cc)"><path d="M0 28 50 0"/><path d="M50 72 180 0"/><path d="M146 90 310 0"/><path d="M242 109 440 0"/><path d="M337 128 570 0"/><path d="M433 147 700 0"/><path d="M529 165 830 0"/><path d="M625 184 960 0"/><path d="M721 203 1024 36"/></g><path d="M3 286L3 285L92 294L181 303L180 432Q179 562 178 567L178 572L168 572L157 572L156 447L155 322L79 314L3 307L3 296Q3 286 3 286Z" fill="#c8c5c6"/><path d="M12 302Q12 302 39 304Q66 307 70 308L75 309L76 312L76 315L80 315L84 315L86 312L87 309L114 312L141 314L142 318L142 321L146 321L150 321L150 318L151 315L157 316L163 317L160 317Q158 317 156 320Q154 322 153 342Q152 362 152 466L152 571L78 571L4 571L4 437L4 303L8 303Q11 303 12 302Z" fill="#c24043"/><path d="M822 408 888 400 888 576 822 576Z" fill="#40302a"/><path d="M888 400 1024 408 1024 576 888 576Z" fill="#584038"/><path d="M888 400 888 576" fill="none" stroke="#6a5248" stroke-width="2"/><path d="M822 408 888 400 1024 408 1024 576 822 576Z" fill="none" stroke="#2a221e" stroke-width="3"/><g fill="none" stroke="#3d302a" stroke-width="3"><path d="M956 404 956 576"/><path d="M888 456 1024 462"/><path d="M888 512 1024 516"/></g><path d="M740 400L740 399L762 401L783 403L782 440L782 478L762 476L741 475L740 438Q740 400 740 400Z" fill="#979f62"/><g stroke="#161616" stroke-width="7" stroke-linejoin="round"><path d="M527 360L527 360L544 360L561 360L562 367L563 374L572 374Q582 374 598 368L614 362L614 380Q615 399 622 417L628 435L645 436L662 436L653 450Q644 464 630 466L617 468L616 502Q615 535 618 538Q620 542 626 542L632 543L634 548L635 554L643 554Q651 554 668 541L686 528L686 518L686 509L689 530Q692 550 694 553Q697 556 705 556L713 556L709 562L705 567L530 567L355 567L364 545Q374 523 378 484Q381 444 386 434Q390 423 400 412Q411 401 411 393L411 385L414 388Q416 391 426 391Q437 391 468 387L498 383L488 414Q477 444 476 471Q476 498 480 510L484 522L498 522L511 521L512 516L512 511L517 510L522 509L522 501L522 493L515 492L508 491L508 480Q508 468 513 446Q518 424 526 408Q534 392 534 384L534 376L522 373L510 370L516 370L521 370L524 366Q527 361 527 360Z" fill="#693e31"/><path d="M508 394L552 394 560 476 550 562 506 564 498 478Z" fill="#4a2c22"/><path d="M490 388Q516 386 522 404L510 528Q508 550 494 554L476 552Q474 528 478 404Q480 388 490 388Z" fill="#eeb755"/><path d="M546 392L574 394 572 432 550 430 548 470L582 468 586 546Q582 560 568 560L546 558Q544 540 546 470Z" fill="#eeb755"/><g fill="none" stroke="#d49a3a" stroke-width="5" stroke-linecap="round"><path d="M472 550h20"/><circle cx="498" cy="550" r="6"/></g><g fill="none" stroke="#d49a3a" stroke-width="5" stroke-linecap="round"><path d="M550 550h20"/><circle cx="576" cy="550" r="6"/></g><path d="M530 372Q620 362 668 392Q676 424 640 442Q560 454 528 430Q522 400 530 372Z" fill="#693e31"/><path d="M498 376Q540 392 572 380L576 404 496 404Z" fill="#693e31"/><use href="#fp" fill="#f0d1c9" stroke="none"/><path d="M370 200Q358 240 366 290Q380 312 430 300Q452 268 444 220Q420 190 370 200Z" fill="#f0d1c9" stroke="none"/><ellipse cx="491" cy="250" rx="54" ry="62" fill="#f0d1c9"/><path d="M374 214L402 226 410 244 390 236Z" fill="#6b3a32" stroke="none"/><path d="M378 300l2 11M386 308l1 12M394 318l2 12M402 326l1 11M410 334l2 12M418 340l1 11M426 346l2 10M434 350l1 10M442 354l2 9M384 322l1 10M398 338l2 10M412 348l1 9M390 348l2 8M404 356l1 8M420 360l2 8M500 384l1 8M510 388l0 8M522 390l1 7M534 390l0 7M546 388l1 6M570 300l2 8M580 306l2 9M588 314l1 8M576 318l2 7" fill="none" stroke="#8a6a5e" stroke-width="1.4" stroke-linecap="round"/><path d="M514 312Q542 304 566 316Q574 344 564 376Q540 388 522 380Q506 362 510 334Q510 318 514 312Z" fill="#31201f"/><path d="M522 332Q546 334 548 350Q546 370 528 376Q510 372 508 354Q508 338 522 332Z" fill="#e19eab" stroke="none"/><path d="M530 338Q522 356 524 370" fill="none" stroke="#c87d8c" stroke-width="3" stroke-linecap="round"/><g clip-path="url(#mc)"><path d="M516 312 524 330 532 312 540 332 548 312 556 330 564 314 570 326 572 308 514 306Z" fill="#fff" stroke="none"/><path d="M518 378 526 360 534 378 542 358 550 378 558 360 566 378 570 368 570 384 516 384Z" fill="#fff" stroke="none"/></g></g><path d="M334 236L332 128Q334 70 350 56Q374 50 394 62Q408 80 434 70Q500 52 576 68Q598 74 618 80Q628 92 626 132L622 204Q560 180 500 176Q440 184 400 216L380 236 354 240 334 236Z" fill="#a76751" stroke="#3a241c" stroke-width="2.5" stroke-linejoin="round"/><g fill="none" stroke="#8f5540" stroke-width="3" stroke-linecap="round"><path d="M374 94q12 36 6 80"/><path d="M594 92q-4 34 2 76"/></g><path d="M386 250Q360 256 358 278Q360 302 386 308" fill="none" stroke="#3a241c" stroke-width="2.2" stroke-linecap="round"/><g fill="none" stroke="#3a241c" stroke-width="1.6" stroke-linecap="round"><path d="M382 266Q372 280 382 296"/></g><ellipse cx="491" cy="250" rx="44" ry="52" fill="#fff"/><ellipse cx="606" cy="262" rx="40" ry="49" fill="#fff"/><g clip-path="url(#ll)" fill="#161616" stroke="none"><path d="M474 248A20 18 0 0 0 516 260Z"/></g><g clip-path="url(#rl)" fill="#161616" stroke="none"><path d="M576 258A26 20 0 0 0 628 264Z"/></g><g fill="none" stroke="#161616" stroke-width="11"><ellipse cx="491" cy="250" rx="45" ry="53"/><ellipse cx="606" cy="262" rx="41" ry="50"/><path d="M546 254q10 4 16 8"/><path d="M442 248 398 272"/></g><path d="M732 282L733 281L736 282Q740 282 742 284Q743 287 742 298Q742 308 740 318Q737 328 733 338Q729 349 729 351Q729 353 731 356Q733 359 733 368Q733 376 730 385Q726 394 720 404Q713 413 708 418Q704 422 698 426Q693 429 683 431Q673 433 656 434Q639 436 636 438L634 439L632 438Q631 437 628 431Q630 420 628 370Q626 330 632 312L634 321L637 322Q640 322 644 320Q647 318 651 314Q655 310 658 304Q661 299 663 297Q665 295 667 294Q669 294 672 296Q675 297 677 300Q679 303 680 312L681 322L683 322Q685 322 688 320Q691 319 700 320L709 321L715 307Q721 293 723 290Q725 287 728 284Q732 282 732 282Z" fill="#dec5b7" stroke="#161616" stroke-width="5" stroke-linejoin="round"/><g fill="none" stroke="#161616" stroke-width="2" stroke-linecap="round"><path d="M668 318q8 14 10 28"/><path d="M720 338q6 8 4 16"/><path d="M678 372q22 8 36 4"/></g><path d="M710 470Q710 469 713 469Q716 469 718 470Q720 471 723 474Q726 477 730 486Q735 494 736 498Q737 503 737 508Q737 512 736 516Q735 519 730 528Q726 536 720 544Q714 552 710 556Q706 560 705 560Q704 560 702 558Q699 556 696 552Q693 548 690 541Q687 534 687 532Q687 530 688 529Q689 528 689 518L689 508L687 508Q685 507 684 505Q683 503 683 500Q683 498 684 494Q686 491 691 486Q696 482 697 482Q698 481 700 482L703 482L704 480Q706 477 706 474L706 472L708 471Q709 470 710 470Z" fill="#dec5b7" stroke="#161616" stroke-width="5" stroke-linejoin="round"/><g fill="none" stroke="#161616" stroke-width="2" stroke-linecap="round"><path d="M692 490q8 4 12 2"/><path d="M688 510q10 4 14 2"/><path d="M718 500q8 8 6 16"/></g><g fill="none" stroke="#161616" stroke-width="5" stroke-linecap="round"><path d="M326 150q-10 16-4 34"/><path d="M310 176q-8 14-3 28"/><path d="M646 106q12 14 10 32"/><path d="M666 128q10 12 9 26"/></g></svg></script>
+<script id="art-src" type="image/svg+xml"><svg xmlns="http://www.w3.org/2000/svg" viewBox="0 0 1024 576"><defs><clipPath id="cc"><path d="M0 0h1024v262L0 62z"/></clipPath><path id="fp" d="M506 174Q507 173 526 174Q544 174 568 180Q592 187 606 194Q620 201 638 216Q655 231 660 246Q664 262 662 272Q660 281 660 288L660 295L662 296L664 296L664 346L663 396L644 400L625 405L625 414L625 422L621 410Q617 397 616 381L615 365L608 365Q600 365 575 374Q550 384 540 382Q531 381 475 386L419 392L409 380Q399 367 392 352Q384 336 378 334Q373 333 368 328Q364 324 360 312Q356 301 356 284Q355 267 360 259Q366 251 368 250L369 248L376 257L383 266L390 266Q397 266 402 262Q408 257 408 250L408 243L404 242L400 242L403 228Q406 213 430 199Q455 185 480 180Q506 174 506 174Z"/><path id="mp" d="M514 312Q542 304 566 316Q574 344 564 376Q540 388 522 380Q506 362 510 334Q510 318 514 312Z"/><clipPath id="mc"><use href="#mp"/></clipPath><clipPath id="ll"><ellipse cx="491" cy="250" rx="42" ry="50"/></clipPath><clipPath id="rl"><ellipse cx="606" cy="262" rx="38" ry="47"/></clipPath></defs><path d="M0 0h1024v576H0z" fill="#1a3ab9"/><path d="M0 0h1024v262L0 62z" fill="#728fc6"/><g fill="none" stroke="#b4c4de" stroke-width="2" clip-path="url(#cc)"><path d="M0 28 50 0"/><path d="M50 72 180 0"/><path d="M146 90 310 0"/><path d="M242 109 440 0"/><path d="M337 128 570 0"/><path d="M433 147 700 0"/><path d="M529 165 830 0"/><path d="M625 184 960 0"/><path d="M721 203 1024 36"/></g><path d="M3 286L3 285L92 294L181 303L180 432Q179 562 178 567L178 572L168 572L157 572L156 447L155 322L79 314L3 307L3 296Q3 286 3 286Z" fill="#c8c5c6"/><path d="M12 302Q12 302 39 304Q66 307 70 308L75 309L76 312L76 315L80 315L84 315L86 312L87 309L114 312L141 314L142 318L142 321L146 321L150 321L150 318L151 315L157 316L163 317L160 317Q158 317 156 320Q154 322 153 342Q152 362 152 466L152 571L78 571L4 571L4 437L4 303L8 303Q11 303 12 302Z" fill="#c24043"/><path d="M822 408 888 400 888 576 822 576Z" fill="#40302a"/><path d="M888 400 1024 408 1024 576 888 576Z" fill="#584038"/><path d="M888 400 888 576" fill="none" stroke="#6a5248" stroke-width="2"/><path d="M822 408 888 400 1024 408 1024 576 822 576Z" fill="none" stroke="#2a221e" stroke-width="3"/><g fill="none" stroke="#3d302a" stroke-width="3"><path d="M956 404 956 576"/><path d="M888 456 1024 462"/><path d="M888 512 1024 516"/></g><path d="M740 400L740 399L762 401L783 403L782 440L782 478L762 476L741 475L740 438Q740 400 740 400Z" fill="#979f62"/><g stroke="#161616" stroke-width="7" stroke-linejoin="round"><path d="M527 360L527 360L544 360L561 360L562 367L563 374L572 374Q582 374 598 368L614 362L614 380Q615 399 622 417L628 435L645 436L662 436L653 450Q644 464 630 466L617 468L616 502Q615 535 618 538Q620 542 626 542L632 543L634 548L635 554L643 554Q651 554 668 541L686 528L686 518L686 509L689 530Q692 550 694 553Q697 556 705 556L713 556L709 562L705 567L530 567L355 567L364 545Q374 523 378 484Q381 444 386 434Q390 423 400 412Q411 401 411 393L411 385L414 388Q416 391 426 391Q437 391 468 387L498 383L488 414Q477 444 476 471Q476 498 480 510L484 522L498 522L511 521L512 516L512 511L517 510L522 509L522 501L522 493L515 492L508 491L508 480Q508 468 513 446Q518 424 526 408Q534 392 534 384L534 376L522 373L510 370L516 370L521 370L524 366Q527 361 527 360Z" fill="#693e31"/><path d="M508 394L552 394 560 476 550 562 506 564 498 478Z" fill="#4a2c22"/><path d="M490 388Q516 386 522 404L510 528Q508 550 494 554L476 552Q474 528 478 404Q480 388 490 388Z" fill="#eeb755"/><path d="M546 392L574 394 572 432 550 430 548 470L582 468 586 546Q582 560 568 560L546 558Q544 540 546 470Z" fill="#eeb755"/><g fill="none" stroke="#d49a3a" stroke-width="5" stroke-linecap="round"><path d="M472 550h20"/><circle cx="498" cy="550" r="6"/></g><g fill="none" stroke="#d49a3a" stroke-width="5" stroke-linecap="round"><path d="M550 550h20"/><circle cx="576" cy="550" r="6"/></g><path d="M530 372Q620 362 668 392Q676 424 640 442Q560 454 528 430Q522 400 530 372Z" fill="#693e31"/><path d="M500 378Q513 374 526 380Q528 388 522 392L500 390Z" fill="#693e31"/><use href="#fp" fill="#f0d1c9" stroke="none"/><path d="M370 200Q358 240 366 290Q380 312 430 300Q452 268 444 220Q420 190 370 200Z" fill="#f0d1c9" stroke="none"/><ellipse cx="491" cy="250" rx="54" ry="62" fill="#f0d1c9"/><path d="M374 214L402 226 410 244 390 236Z" fill="#6b3a32" stroke="none"/><path d="M378 300l2 11M386 308l1 12M394 318l2 12M402 326l1 11M410 334l2 12M418 340l1 11M426 346l2 10M434 350l1 10M442 354l2 9M384 322l1 10M398 338l2 10M412 348l1 9M390 348l2 8M404 356l1 8M420 360l2 8M500 384l1 8M510 388l0 8M522 390l1 7M534 390l0 7M546 388l1 6M570 300l2 8M580 306l2 9M588 314l1 8M576 318l2 7" fill="none" stroke="#8a6a5e" stroke-width="1.4" stroke-linecap="round"/><path d="M514 312Q542 304 566 316Q574 344 564 376Q540 388 522 380Q506 362 510 334Q510 318 514 312Z" fill="#31201f"/><path d="M522 332Q546 334 548 350Q546 370 528 376Q510 372 508 354Q508 338 522 332Z" fill="#e19eab" stroke="none"/><path d="M530 338Q522 356 524 370" fill="none" stroke="#c87d8c" stroke-width="3" stroke-linecap="round"/><g clip-path="url(#mc)"><path d="M516 312 524 330 532 312 540 332 548 312 556 330 564 314 570 326 572 308 514 306Z" fill="#fff" stroke="none"/><path d="M518 378 526 360 534 378 542 358 550 378 558 360 566 378 570 368 570 384 516 384Z" fill="#fff" stroke="none"/></g></g><path d="M334 236L332 128Q334 70 350 56Q374 50 394 62Q408 80 434 70Q500 52 576 68Q598 74 618 80Q628 92 626 132L622 204Q560 180 500 176Q440 184 400 216L380 236 354 240 334 236Z" fill="#a76751" stroke="#3a241c" stroke-width="2.5" stroke-linejoin="round"/><g fill="none" stroke="#8f5540" stroke-width="3" stroke-linecap="round"><path d="M374 94q12 36 6 80"/><path d="M594 92q-4 34 2 76"/></g><path d="M386 250Q360 256 358 278Q360 302 386 308" fill="none" stroke="#3a241c" stroke-width="2.2" stroke-linecap="round"/><g fill="none" stroke="#3a241c" stroke-width="1.6" stroke-linecap="round"><path d="M382 266Q372 280 382 296"/></g><ellipse cx="491" cy="250" rx="44" ry="52" fill="#fff"/><ellipse cx="606" cy="262" rx="40" ry="49" fill="#fff"/><g clip-path="url(#ll)" fill="#161616" stroke="none"><path d="M474 248A20 18 0 0 0 516 260Z"/></g><g clip-path="url(#rl)" fill="#161616" stroke="none"><path d="M576 258A26 20 0 0 0 628 264Z"/></g><g fill="none" stroke="#161616" stroke-width="11"><ellipse cx="491" cy="250" rx="45" ry="53"/><ellipse cx="606" cy="262" rx="41" ry="50"/><path d="M546 254q10 4 16 8"/><path d="M442 248 398 272"/></g><path d="M732 282L733 281L736 282Q740 282 742 284Q743 287 742 298Q742 308 740 318Q737 328 733 338Q729 349 729 351Q729 353 731 356Q733 359 733 368Q733 376 730 385Q726 394 720 404Q713 413 708 418Q704 422 698 426Q693 429 683 431Q673 433 656 434Q639 436 636 438L634 439L632 438Q631 437 628 431Q630 420 628 370Q626 330 632 312L634 321L637 322Q640 322 644 320Q647 318 651 314Q655 310 658 304Q661 299 663 297Q665 295 667 294Q669 294 672 296Q675 297 677 300Q679 303 680 312L681 322L683 322Q685 322 688 320Q691 319 700 320L709 321L715 307Q721 293 723 290Q725 287 728 284Q732 282 732 282Z" fill="#dec5b7" stroke="#161616" stroke-width="5" stroke-linejoin="round"/><g fill="none" stroke="#161616" stroke-width="2" stroke-linecap="round"><path d="M668 318q8 14 10 28"/><path d="M720 338q6 8 4 16"/><path d="M678 372q22 8 36 4"/></g><path d="M710 470Q710 469 713 469Q716 469 718 470Q720 471 723 474Q726 477 730 486Q735 494 736 498Q737 503 737 508Q737 512 736 516Q735 519 730 528Q726 536 720 544Q714 552 710 556Q706 560 705 560Q704 560 702 558Q699 556 696 552Q693 548 690 541Q687 534 687 532Q687 530 688 529Q689 528 689 518L689 508L687 508Q685 507 684 505Q683 503 683 500Q683 498 684 494Q686 491 691 486Q696 482 697 482Q698 481 700 482L703 482L704 480Q706 477 706 474L706 472L708 471Q709 470 710 470Z" fill="#dec5b7" stroke="#161616" stroke-width="5" stroke-linejoin="round"/><g fill="none" stroke="#161616" stroke-width="2" stroke-linecap="round"><path d="M692 490q8 4 12 2"/><path d="M688 510q10 4 14 2"/><path d="M718 500q8 8 6 16"/></g><g fill="none" stroke="#161616" stroke-width="5" stroke-linecap="round"><path d="M326 150q-10 16-4 34"/><path d="M310 176q-8 14-3 28"/><path d="M646 106q12 14 10 32"/><path d="M666 128q10 12 9 26"/></g></svg></script>
 <script type="module">
 const ANCHOR_SLOT = 193727336, ANCHOR_UNIX = 1785293627;
 const DEADLINE_SLOT = 196010382, TICKER = 'GHOST';

diff --git a/tipsy/index.html b/tipsy/index.html
@@ -4,18 +4,18 @@
 <meta charset="utf-8">
 <meta name="viewport" content="width=device-width,initial-scale=1">
 <title>Tipsy Turtles, on chain</title>
-<meta name="description" content="Three Tipsy Turtles frames redrawn as vector art and stored entirely inside their minting transactions — 32.7 kB of chain against 4.1 MB of pinned PNG.">
+<meta name="description" content="Three Tipsy Turtles frames redrawn as vector art and stored entirely inside their minting transactions — 33.3 kB of chain against 4.1 MB of pinned PNG.">
 <link rel="canonical" href="https://beacnpool.github.io/ABCDE/tipsy/">
 <meta property="og:type" content="website">
 <meta property="og:url" content="https://beacnpool.github.io/ABCDE/tipsy/">
 <meta property="og:title" content="Tipsy Turtles, on chain">
-<meta property="og:description" content="Three Tipsy Turtles frames redrawn as vector art and stored entirely inside their minting transactions — 32.7 kB of chain against 4.1 MB of pinned PNG.">
+<meta property="og:description" content="Three Tipsy Turtles frames redrawn as vector art and stored entirely inside their minting transactions — 33.3 kB of chain against 4.1 MB of pinned PNG.">
 <meta property="og:image" content="https://beacnpool.github.io/ABCDE/tipsy/og.png">
 <meta property="og:image:width" content="1200">
 <meta property="og:image:height" content="630">
 <meta name="twitter:card" content="summary_large_image">
 <meta name="twitter:title" content="Tipsy Turtles, on chain">
-<meta name="twitter:description" content="Three Tipsy Turtles frames redrawn as vector art and stored entirely inside their minting transactions — 32.7 kB of chain against 4.1 MB of pinned PNG.">
+<meta name="twitter:description" content="Three Tipsy Turtles frames redrawn as vector art and stored entirely inside their minting transactions — 33.3 kB of chain against 4.1 MB of pinned PNG.">
 <meta name="twitter:image" content="https://beacnpool.github.io/ABCDE/tipsy/og.png">
 <style>
 *{box-sizing:border-box}
@@ -112,7 +112,7 @@ footer{margin-top:44px;padding-top:16px;border-top:1px solid var(--line);
      it. Each of these is the same frame redrawn as vector art and written
      <b>into the minting transaction itself</b>. No gateway, no pin, no bill.</p>
   <p class="sub">Together that is <b>4.1 MB</b> of pinned PNG on one side
-     and <b>32.7 kB</b> of transaction on the other. Open any of them: the
+     and <b>33.3 kB</b> of transaction on the other. Open any of them: the
      left panel is fetched live from your gateway, the right is decoded from the chain.</p>
 
   <div class="cards">
@@ -121,7 +121,7 @@ footer{margin-top:44px;padding-top:16px;border-top:1px solid var(--line);
               alt="Tipsy Turtles_Bonus Snippet_1" loading="lazy"></span>
         <span class="meta"><b>Tipsy Turtles_Bonus Snippet_1</b>A character bust with a hand-lettered subtitle. Stubble is individual strokes, not a hatch fill; the hat flap is drawn as its own lobe.
           <span class="ratio"><span>their PNG <b>2.12 MB</b></span>
-          <span>our transaction <b>13.5 kB</b></span></span>
+          <span>our transaction <b>14.2 kB</b></span></span>
         </span>
       </a>
       <a class="card" href="ghost/">
